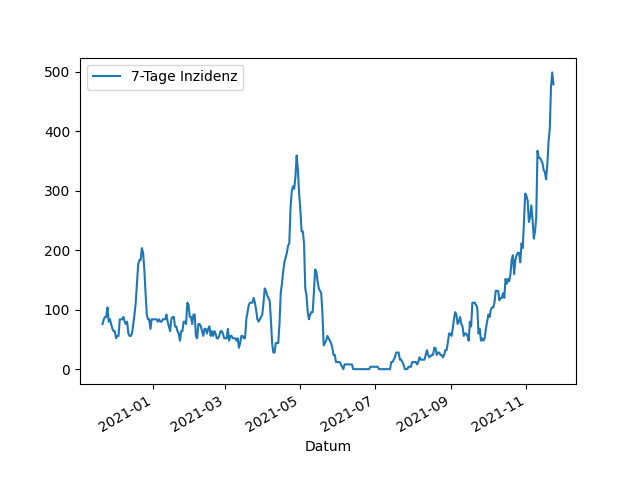
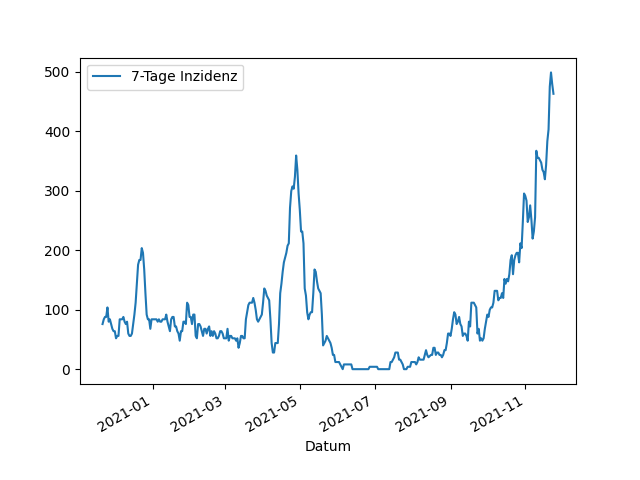
Update images

diff --git a/_includes/aktuelle_inzidenz.md b/_includes/aktuelle_inzidenz.md
@@ -1,1 +1,1 @@
-479,0
+463,0
